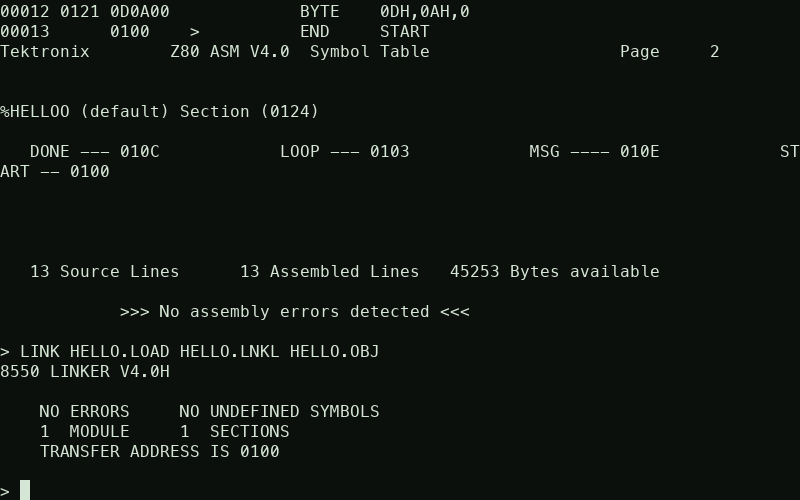
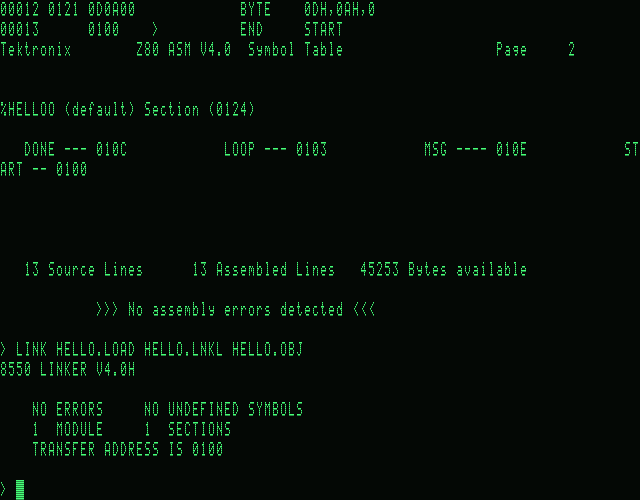
Screenshots on the CT8500's documented raster (6x8 in 8x10, green)
- tools/render_screens.py --style ct8500 (default): 640x250 dot raster,
  line-doubled to 640x500, green phosphor, attributes and block cursor
- tools/font5x7.py: classic public-domain 5x7 dot font as stand-in for the
  undumped CT8500 character ROM
- docs/screenshots re-rendered

diff --git a/tools/render_screens.py b/tools/render_screens.py
@@ -1,17 +1,21 @@
 #!/usr/bin/env python3
 """Render CT8500 screen snapshots (tek8550 -snap) or plain text to PNG.
 
-Each image is the terminal's native 80x25 character grid at a fixed cell size
-(default 10x20 px -> 800x500), no window chrome, no scaling.
-usage: render_screens.py [--cell WxH] [--font TTF] [--title TEXT] INPUT OUTPUT.png
+--style ct8500 (default): the CT8500's documented raster -- characters on a 6x8 dot
+  matrix in an 8x10 dot field, 80x25 -> 640 dots x 250 scan lines, green on black;
+  each scan line is doubled (second line dimmer) -> 640x500 for the tube's aspect.
+  Glyphs: classic 5x7 dot-matrix font (stand-in; the CT8500 character ROM is not dumped).
+--style modern: a TrueType monospace font in --cell WxH cells (default 10x20 -> 800x500).
+usage: render_screens.py [--style ct8500|modern] [--cell WxH] [--font TTF] INPUT OUTPUT.png
 INPUT is a .scr snapshot ("CT8500 ..." header) or a plain text file (last 25 lines).
 """
-import argparse, sys
+import argparse, os, sys
+sys.path.insert(0, os.path.dirname(os.path.abspath(__file__)))
 from PIL import Image, ImageDraw, ImageFont
 
 FG = (214, 230, 214)      # CT8500-style pale phosphor
 DIM = (130, 150, 130)
-BG = (12, 16, 12)
+BG = (4, 8, 5)
 
 def load(path):
     lines = open(path, encoding='latin-1').read().split('\n')
@@ -27,14 +31,53 @@ def load(path):
     text = [l.ljust(80)[:80] for l in body] + [' ' * 80] * (25 - len(body))
     return 80, 25, text, ['0' * 80] * 25, None
 
+GREEN = (70, 255, 120); GREEN_DIM = (35, 150, 70)
+
+def render_ct8500(cols, rows, text, attr, cursor, out):
+    from font5x7 import glyph
+    W, H = cols * 8, rows * 10                       # 640 x 250 dot raster
+    dots = [[0] * W for _ in range(H)]               # 0 off, 1 dim, 2 bright
+    for y in range(rows):
+        for x in range(cols):
+            a = int(attr[y][x], 16)
+            lvl = 1 if a & 8 else 2
+            g = glyph(ord(text[y][x]))
+            cell = [[0] * 8 for _ in range(10)]
+            for cx in range(5):                       # 5x7 glyph inside the 6x8 matrix, 1-dot margin
+                col = g[cx]
+                for cy in range(7):
+                    if col >> cy & 1: cell[1 + cy][1 + cx] = lvl
+            if a & 1:                                 # underline on the 9th scan line of the field
+                for cx in range(8): cell[8][cx] = lvl
+            inv = bool(a & 4) ^ (cursor == (y, x))    # inverse video / block cursor
+            for cy in range(10):
+                for cx in range(8):
+                    v = cell[cy][cx]
+                    if inv: v = 0 if v else lvl
+                    dots[y * 10 + cy][x * 8 + cx] = v
+    img = Image.new('RGB', (W, H * 2), BG)
+    px = img.load()
+    for yy in range(H):
+        for xx in range(W):
+            v = dots[yy][xx]
+            if v:
+                c = GREEN if v == 2 else GREEN_DIM
+                px[xx, yy * 2] = c
+                px[xx, yy * 2 + 1] = tuple(int(k * 0.55) for k in c)
+    img.save(out)
+    print(out, img.size)
+
 def main():
     ap = argparse.ArgumentParser()
     ap.add_argument('input'); ap.add_argument('output')
+    ap.add_argument('--style', default='ct8500', choices=['ct8500', 'modern'])
     ap.add_argument('--cell', default='10x20')
     ap.add_argument('--font', default='/System/Library/Fonts/Menlo.ttc')
     args = ap.parse_args()
-    cw, chh = (int(v) for v in args.cell.split('x'))
     cols, rows, text, attr, cursor = load(args.input)
+    if args.style == 'ct8500':
+        return render_ct8500(cols, rows, text, attr, cursor, args.output)
+    cw, chh = (int(v) for v in args.cell.split('x'))
     font = ImageFont.truetype(args.font, int(chh * 0.8))
     img = Image.new('RGB', (cols * cw, rows * chh), BG)
     d = ImageDraw.Draw(img)

diff --git a/tools/font5x7.py b/tools/font5x7.py
@@ -1,0 +1,27 @@
+"""Classic public-domain 5x7 dot-matrix font (ASCII 20h-7Eh), column bytes, bit 0 = top row.
+Used as a period-typical stand-in for the CT8500 character generator (6x8 matrix in an 8x10
+field per the operator's manual); the CT8500's own character ROM has not been dumped."""
+FONT = {
+0x20:"0000000000",0x21:"00005f0000",0x22:"0007000700",0x23:"147f147f14",0x24:"242a7f2a12",
+0x25:"2313086462",0x26:"3649552250",0x27:"0005030000",0x28:"001c224100",0x29:"0041221c00",
+0x2a:"082a1c2a08",0x2b:"08083e0808",0x2c:"0050300000",0x2d:"0808080808",0x2e:"0060600000",
+0x2f:"2010080402",0x30:"3e5149453e",0x31:"00427f4000",0x32:"4261514946",0x33:"2141454b31",
+0x34:"1814127f10",0x35:"2745454539",0x36:"3c4a494930",0x37:"0171090503",0x38:"3649494936",
+0x39:"064949291e",0x3a:"0036360000",0x3b:"0056360000",0x3c:"0008142241",0x3d:"1414141414",
+0x3e:"4122140800",0x3f:"0201510906",0x40:"324979413e",0x41:"7e1111117e",0x42:"7f49494936",
+0x43:"3e41414122",0x44:"7f4141221c",0x45:"7f49494941",0x46:"7f09090101",0x47:"3e41415132",
+0x48:"7f0808087f",0x49:"00417f4100",0x4a:"2040413f01",0x4b:"7f08142241",0x4c:"7f40404040",
+0x4d:"7f0204027f",0x4e:"7f0408107f",0x4f:"3e4141413e",0x50:"7f09090906",0x51:"3e4151215e",
+0x52:"7f09192946",0x53:"4649494931",0x54:"01017f0101",0x55:"3f4040403f",0x56:"1f2040201f",
+0x57:"7f2018207f",0x58:"6314081463",0x59:"0304780403",0x5a:"6151494543",0x5b:"00007f4141",
+0x5c:"0204081020",0x5d:"41417f0000",0x5e:"0402010204",0x5f:"4040404040",0x60:"0001020400",
+0x61:"2054545478",0x62:"7f48444438",0x63:"3844444420",0x64:"384444487f",0x65:"3854545418",
+0x66:"087e090102",0x67:"081454543c",0x68:"7f08040478",0x69:"00447d4000",0x6a:"2040443d00",
+0x6b:"007f102844",0x6c:"00417f4000",0x6d:"7c04180478",0x6e:"7c08040478",0x6f:"3844444438",
+0x70:"7c14141408",0x71:"081414187c",0x72:"7c08040408",0x73:"4854545420",0x74:"043f444020",
+0x75:"3c4040207c",0x76:"1c2040201c",0x77:"3c4030403c",0x78:"4428102844",0x79:"0c5050503c",
+0x7a:"4464544c44",0x7b:"0008364100",0x7c:"00007f0000",0x7d:"0041360800",0x7e:"0804081008",
+}
+def glyph(code):
+    h = FONT.get(code, FONT[0x3f])
+    return [int(h[i:i + 2], 16) for i in range(0, 10, 2)]

diff --git a/docs/screenshots/README.md b/docs/screenshots/README.md
@@ -1,7 +1,11 @@
 # 8550 session: edit, assemble, link, run (emulation mode 1, external target)
 
-Captured from the emulated CT8500 at its native 80×25 grid (10×20 px cells, 800×500 px).
-Regenerate with `tools/make_screenshots.sh`.
+Captured from the emulated CT8500 and drawn on its documented raster: 80×25 characters on a 6×8 dot matrix in an
+8×10 dot field, i.e. 640 dots × 250 scan lines, green on black (CT8500 Operators Manual 070-3737-00, "Display Features").
+Each scan line is doubled (second line dimmer) to give 640×500 px, close to the 12-inch tube's aspect ratio.
+The glyphs are a classic public-domain 5×7 dot-matrix font. The CT8500's own character ROM has never been dumped, so the
+letter shapes are a period-typical stand-in. Regenerate with `tools/make_screenshots.sh`
+(`tools/render_screens.py --style modern` gives the plain TrueType variant).
 
 1. ![boot](01_boot.png) Power-on: 8301 boot ROM, 8501 file server, **DOS/50 V1.0** prompt.
 2. ![ace new](02_ace_new.png) `SEL Z80`, `ACE HELLO.ASM`: a new, empty file in the full-screen editor.
